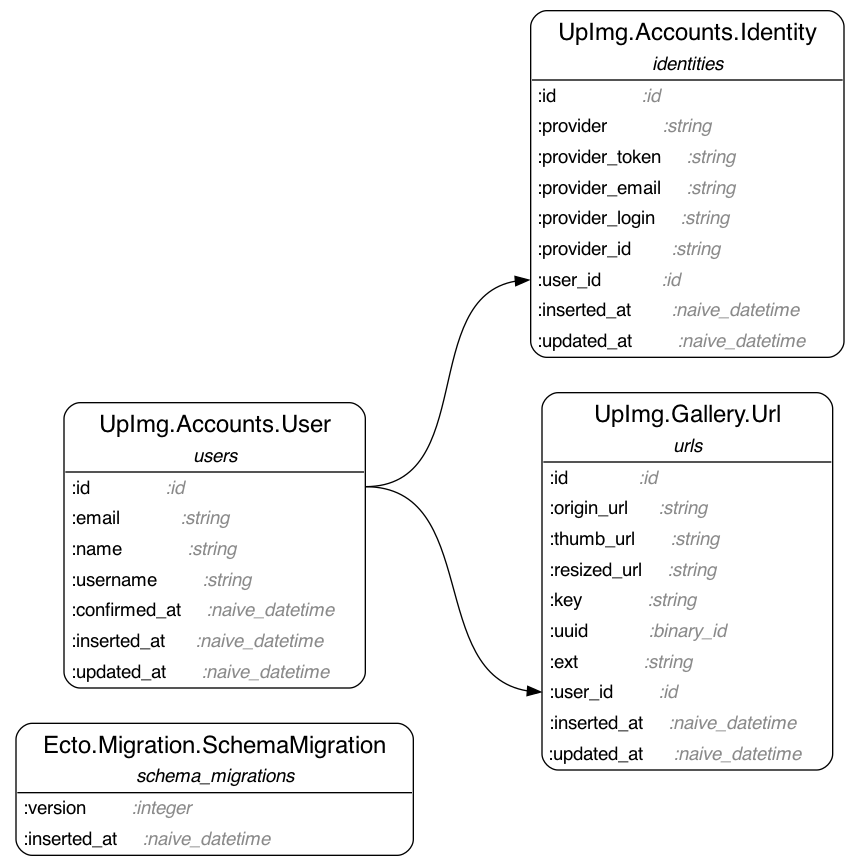
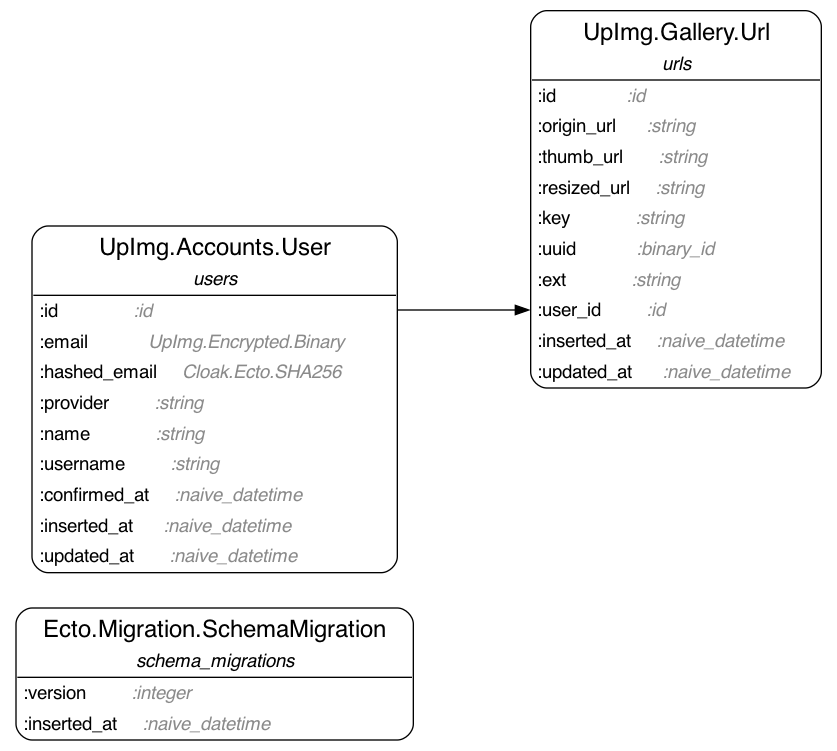
added email encryption

diff --git a/README.md b/README.md
@@ -16,9 +16,19 @@ Use `[{:cloak, "~> 1.1"},{:cloak_ecto, "~> 1.2"}]` and `{:argon2_elixir, "~> 3.2
 
 The salt is set by an env var. For the key rotation, read <https://github.com/dwyl/phoenix-ecto-encryption-example#33-key-rotation>
 
-The set up is:
+The (easiest) set up is:
 
 ```elixir
+# Application.ex
+children = [
+  ...
+  UpImg.MyVault
+]
+
+defmodule UpImg.Encrypted.Binary do
+  use Cloak.Ecto.Binary, vault: UpImg.MyVault
+end
+
 defmodule UpImg.MyVault do
   use Cloak.Vault, otp_app: :up_img
 
@@ -44,7 +54,7 @@ end
 ```
 
 [Usage of the Ecto Type Cloak.Ecto.SHA256](https://hexdocs.pm/cloak_ecto/Cloak.Ecto.SHA256.html#module-usage)
-The email is encrypted and the email is hashed.
+The email is encrypted and the email is hashed. We use the Cloak special types:
 
 ```elixir
 @derive {Inspect, except: [:email]}
@@ -61,7 +71,7 @@ schema "users" do
 end
 ```
 
-The changeset is:
+A changeset for a provider is shown below. Don't pass in a hash of the email. This is enforced in te `put_change`.
 
 ```elixir
 def google_registration_changeset(profil) do
@@ -81,7 +91,7 @@ def google_registration_changeset(profil) do
 end
 ```
 
-We can check is the user should be created or exists with the simple query:
+We can check if the user should be created or exists with the simple query:
 
 ```elixir
 def get_user_by_provider(provider, email) when provider in ["github"] do
